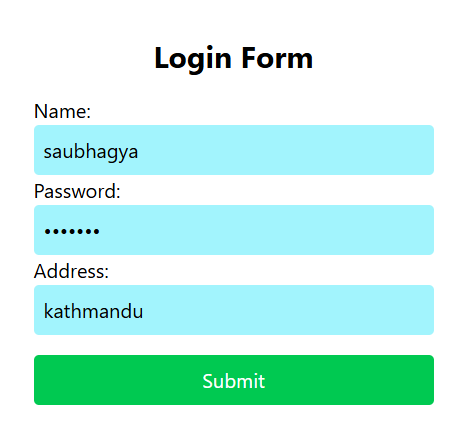
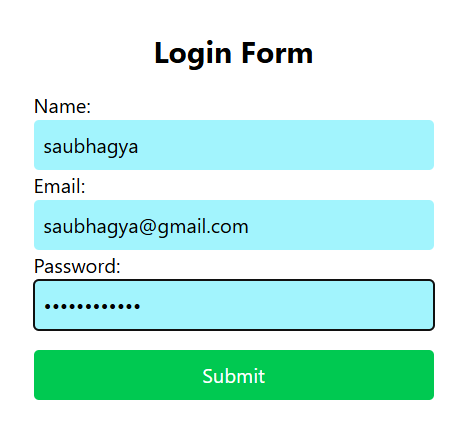
small changes

Changed region(s): [[0.0607, 0.2131, 0.9414, 0.7916], [0.0607, 0.822, 0.9414, 0.9438], [0.3037, 0.0913, 0.6985, 0.1827]]

diff --git a/src/components/rhookForm.tsx b/src/components/rhookForm.tsx
@@ -7,14 +7,14 @@ import { zodResolver } from "@hookform/resolvers/zod";
 
 const loginZodSchema = z.object({
   name: z.string().min(3, "naam xoto bhayo"),
+  email: z.string(),
   password: z.string(),
-  address: z.string(),
 });
 
 type inputs = {
   name: string;
   password: string;
-  address: string;
+  email: string;
 };
 const Form = () => {
   const {
@@ -47,6 +47,20 @@ const Form = () => {
           />
           {errors.name && <p className="text-red-400">{errors.name.message}</p>}
 
+          <label htmlFor="email">Email:</label>
+          <input
+            className="bg-cyan-200 p-2 rounded"
+            id="email"
+            placeholder="Enter email..."
+            type="email"
+            {...register("email", {
+              required: { message: "Email is required", value: true },
+            })}
+          />
+          {errors.email && (
+            <p className="text-red-400">{errors.email.message}</p>
+          )}
+
           <label htmlFor="password">Password:</label>
           <input
             className="bg-cyan-200 p-2 rounded"
@@ -59,20 +73,6 @@ const Form = () => {
           />
           {errors.password && (
             <p className="text-red-400">{errors.password.message}</p>
-          )}
-
-          <label htmlFor="address">Address:</label>
-          <input
-            className="bg-cyan-200 p-2 rounded"
-            id="address"
-            placeholder="Enter address..."
-            type="text"
-            {...register("address", {
-              required: { message: "Address is required", value: true },
-            })}
-          />
-          {errors.address && (
-            <p className="text-red-400">{errors.address.message}</p>
           )}
 
           <button
